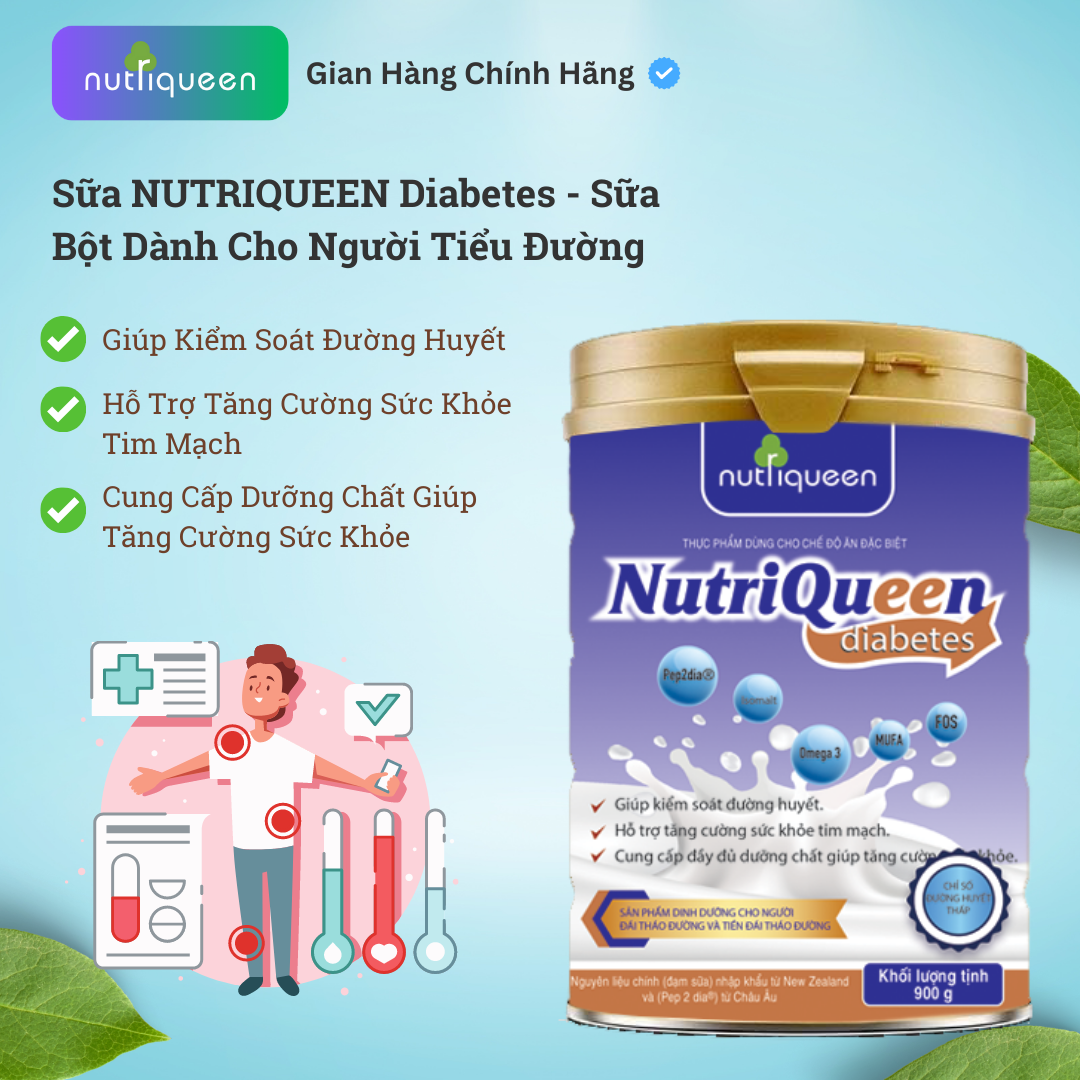
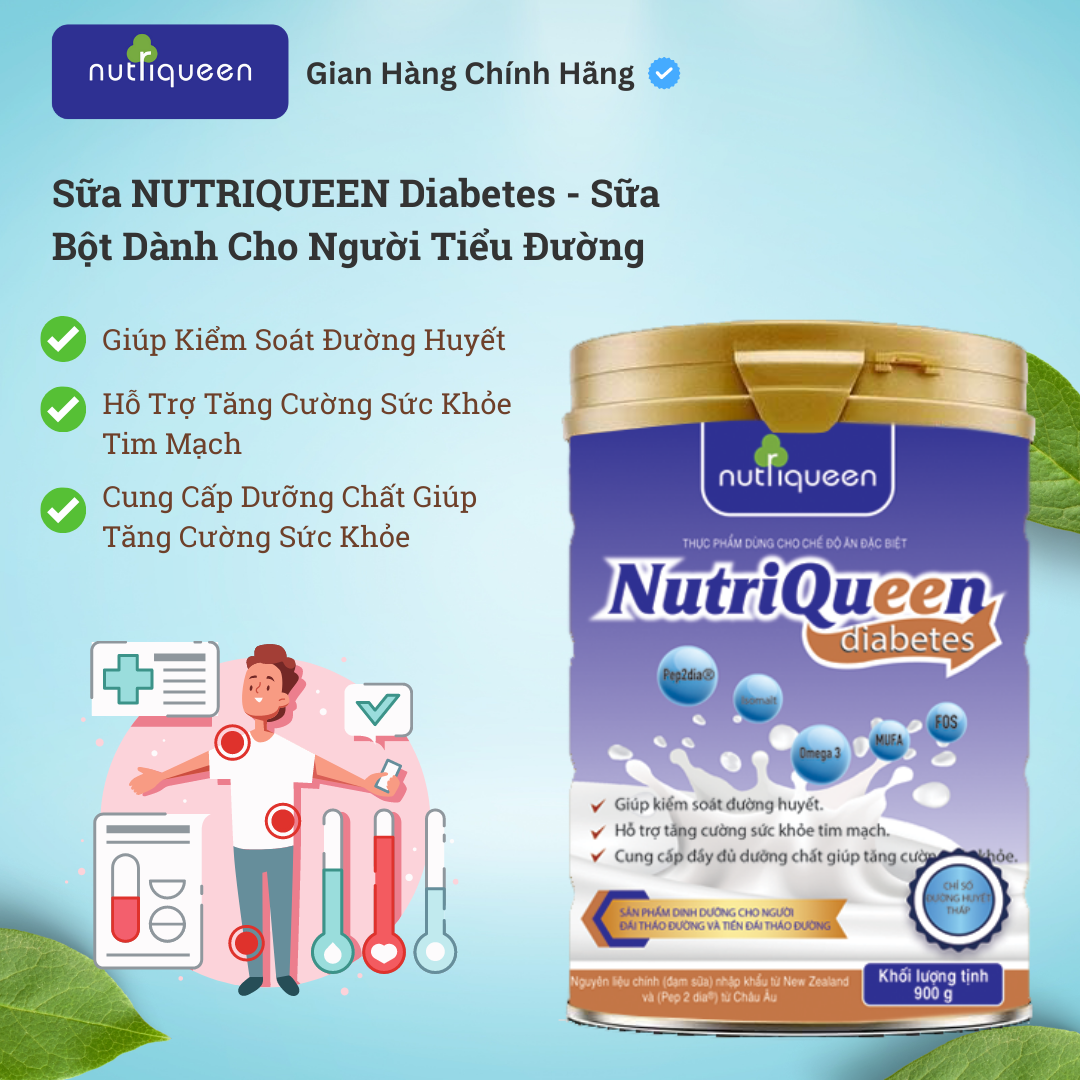
Dev: update product

Changed region(s): [[0.0306, 0.0, 0.275, 0.1222]]

diff --git a/layouts/contact/list.html b/layouts/contact/list.html
@@ -36,7 +36,38 @@
       </div>
     </div>
   </header>
+  <section class="contact-form">
+    <div class="container">
+      <div class="row justify-content-center">
+        <div class="col-lg-6">
+          <div class="contact-form-title">
+            <h3>Gửi Thông Tin</h3>
+          </div>
+          <div class="contact-form-input">
+            <form id="contact-form" action="{{ .Site.Params.fabformURL }}" method="POST">
+              <div class="form-row">
+                <div class="form-group col-md-6 pr-3">
+                  <input type="text" class="form-control" name="Name" placeholder="Tên" required />
+                </div>
+                <div class="form-group col-md-6">
+                  <input type="phone" class="form-control" name="phone" placeholder="Số Điện Thoại" required />
+                </div>
+              </div>
 
+              <div class="form-group">
+                <textarea class="form-control" id="message" rows="6" name="message" placeholder="Nội dung"></textarea>
+              </div>
+
+              <button type="submit" class="btn btn-primary btn-zoom" id="contact-form-button" formtarget="_blank">
+                Gửi
+              </button>
+              <p id="contact-form-status" class="mt-3"></p>
+            </form>
+          </div>
+        </div>
+      </div>
+    </div>
+  </section>
   {{ $address := .Site.Params.address }}
   <section class="section contact__info">
     <div class="container">
@@ -104,47 +135,6 @@
               {{ $address.openingHours }}
             </p>
           </div>
-        </div>
-      </div>
-    </div>
-  </section>
-
-  <section class="contact-form">
-    <div class="container">
-      <div class="row">
-        <div class="col-lg-6">
-          <div class="contact-form-title">
-            <h3>Gửi Thông Tin</h3>
-          </div>
-          <div class="contact-form-input">
-            <form id="contact-form" action="{{ .Site.Params.fabformURL }}" method="POST">
-              <div class="form-row">
-                <div class="form-group col-md-6 pr-3">
-                  <input type="text" class="form-control" name="Name" placeholder="Tên" required />
-                </div>
-                <div class="form-group col-md-6">
-                  <input type="phone" class="form-control" name="phone" placeholder="Số Điện Thoại" required />
-                </div>
-              </div>
-
-              <div class="form-group">
-                <textarea class="form-control" id="message" rows="6" name="message" placeholder="Nội dung"></textarea>
-              </div>
-
-              <button type="submit" class="btn btn-primary btn-zoom" id="contact-form-button" formtarget="_blank">
-                Gửi
-              </button>
-              <p id="contact-form-status" class="mt-3"></p>
-            </form>
-          </div>
-        </div>
-        <div class="col-lg-6">
-          {{ $map := .Site.Params.map }}
-          <div
-            id="map"
-            data-lat="{{ $map.latitude }}"
-            data-long="{{ $map.longitude }}"
-            data-pin="{{ $map.pinImage | absURL }}"></div>
         </div>
       </div>
     </div>

diff --git a/assets/scss/components/_navbar.scss b/assets/scss/components/_navbar.scss
@@ -1,13 +1,12 @@
 .navbar {
-  padding: 40px 0;
+  padding: 6px 0;
   background: transparent;
   transition: all 0.3s ease;
   @include desktop {
     background: $white;
   }
   @include desktop {
-    padding: 15px 20px;
-    margin: 10px 10px 0;
+    padding: 6px 15px;
     border-radius: 5px;
   }
   .navbar-brand {
@@ -19,10 +18,10 @@
   }
   &.nav__color__change {
     background: $white;
-    padding: 20px 0;
-    box-shadow: 0 10px 20px 0 rgba(50, 65, 141, 0.1);
+    padding: 6px 0;
+    box-shadow: rgba(0, 0, 0, 0.35) 0px 5px 15px;
     @include desktop {
-      padding: 15px 20px;
+      padding: 6px 15px;
     }
   }
   @include desktop {

diff --git a/layouts/product/single.html b/layouts/product/single.html
@@ -22,12 +22,12 @@
     </div>
     <div class="container">
       <div class="row mb-5">
-        <div class="col-lg-10 offset-lg-1 text-center">
+        <div class="col-lg-10 offset-lg-1">
           <div class="case-details-title">
             <h1>{{ .Title }}</h1>
           </div>
           <p>{{ .Params.shortDescription }}</p>
-          <div class="case-details-info">
+          <div class="case-details-info text-center">
             {{ range .Params.table }}
               <div class="case-details-info-item">
                 <h5>{{ .title }}</h5>

diff --git a/layouts/partials/landing/productSection.html b/layouts/partials/landing/productSection.html
@@ -14,7 +14,7 @@
           <div class="col-12">
             <div class="product-item-grid">
               {{ range first 4 (where $.Site.RegularPages "Type" "product") }}
-                <div class="product-item">
+                <div class="product-item mb-5">
                   {{ $asset := resources.Get .Params.thumbnail }}
                   {{ $img := $asset.Resize "500x webp" }}
                   <img src="{{ $img.RelPermalink }}" class="product-item-thumb" alt="product-thumb" />

diff --git a/layouts/product/list.html b/layouts/product/list.html
@@ -41,7 +41,7 @@
         <div class="col-12">
           <div class="product-item-grid">
             {{ range .Paginator.Pages }}
-              <div class="product-item">
+              <div class="product-item mb-5">
                 {{ $asset := resources.Get .Params.thumbnail }}
                 {{ $img := $asset.Resize "700x webp" }}
                 <img src="{{ $img.RelPermalink }}" class="product-item-thumb" alt="product-thumb" />

diff --git a/assets/scss/_variables.scss b/assets/scss/_variables.scss
@@ -3,7 +3,7 @@
 //
 
 // General
-$primary: #02a757;
+$primary: #5271ff;
 $secondary: #282f49;
 
 // Text
@@ -22,9 +22,9 @@ $headings-font-family: "Roboto", sans-serif;
 
 // Size
 $font-size-base: 1.125rem; // 18px
-$h1-font-size: 60px;
-$h2-font-size: 50px;
-$h3-font-size: 30px;
+$h1-font-size: 30px;
+$h2-font-size: 30px;
+$h3-font-size: 27px;
 $h4-font-size: 25px;
 $h5-font-size: 22px;
 $h6-font-size: 16px;

diff --git a/assets/scss/components/_case_details.scss b/assets/scss/components/_case_details.scss
@@ -1,5 +1,5 @@
 .case-details {
-  padding: 200px 0 100px;
+  padding: 150px 0 100px;
   .svg-img {
     position: absolute;
     top: 30%;
@@ -44,7 +44,7 @@
     background: $secondary;
     border-radius: 20px;
     padding: 30px 20px;
-    margin: 70px 0 80px;
+    margin: 30px 0 30px;
     @include mobile {
       flex-direction: column;
       padding: 30px 0;

diff --git a/assets/scss/components/_page-title.scss b/assets/scss/components/_page-title.scss
@@ -42,7 +42,7 @@
     padding: 120px 0 0;
   }
   &__title {
-    font-size: 48px;
+    font-size: 27px;
     line-height: 1;
     margin: 0 0 30px;
   }

diff --git a/assets/scss/components/_contact.scss b/assets/scss/components/_contact.scss
@@ -27,7 +27,7 @@
   }
 }
 .contact-form {
-  padding: 50px 0 100px;
+  padding: 60px 0 30px;
   &-input {
     .form-group {
       margin-bottom: 30px;

diff --git a/content/product/sua-tieu-hoa.md b/content/product/sua-tieu-hoa.md
@@ -3,21 +3,54 @@ title: "Sữa Hỗ Trợ Tiêu Hóa Nutriqueen Diges"
 date: 2019-07-11T12:49:27.000+06:00
 thumbnail: images/product/sua-tieu-hoa.png
 table:
-  - title: Service
-    description: Development, UX Design
-  - title: Continent
-    description: Americas Latin
-  - title: Fibonacci
-    description: Fractal, Design
-  - title: Kafka
-    description: John Smith
+  - title: Sản Xuất Tại Việt Nam
+    description: Nguyên Liệu Nhập Khẩu New Zealand
 categories: Sữa, Sản Phẩm Từ Sữa
-shortDescription: Lorem ipsum dolor sit amet, consetetur sadipscing elitr, sed diam
-  nonumy eirmod tempor invidunt ut labore et dolore magna aliquyam erat, sed diam
-  voluptua. At vero eos et accusam et justo duo dolores et ea rebum. Stet clita kasd
-  gubergren, no sea takimata sanctus est Lorem ipsum dolor sit amet lorem ipsum dolor.
+shortDescription: 'Công thức dinh dưỡng cho người viêm dạ dày và rối loạn tiêu hóa 
+Thực phẩm bổ sung dinh dưỡng Nutriqueen Diges là công thức chuyên biệt cho người viêm dạ dày - tá tràng  và rối loạn tiêu hóa và người gặp các vấn đề về tiêu hóa. Công thức bổ sung thành phần Ovopron - HP nhập khẩu từ Nhật bản chứa kháng thể  IgY giúp làm giảm vi khuẩn HP và Nano curcumin giúp làm giảm viêm loét dạ dày - tá tràng.'
 ---
 
-Lorem ipsum dolor sit amet, consetetur sadipscing elitr, sed diam nonumy eirmod tempor invidunt ut labore et dolore magna aliquyam erat, sed diam voluptua. At vero eos et accusam et justo duo dolores et ea rebum. Stet clita kasd gubergren, no sea takimata sanctus est Lorem ipsum dolor sit amet. Lorem ipsum dolor sit amet, consetetur sadipscing elitr, sed diam nonumy eirmod tempor invidunt ut labore et dolore magna aliquyam erat, sed diam voluptua. At vero eos et accusam et justo duo dolores et ea rebum. Stet clita kasd gubergren, no sea takimata sanctus est Lorem ipsum dolor sit amet.
+Những ai đang gặp các vấn đề liên quan hệ tiêu hóa, hoặc đơn giản muốn tăng cường sức khỏe cơ thể, nhưng chưa biết lựa chọn sản phẩm nào tốt, chất lượng, thì quý vị có thể tham khảo qua sản phẩm Sữa NutriQueen Diges của Công ty CP Nutriqueen trong bài viết dưới đây.
 
-Ipsum dolor sit amet, consetetur sadipscing elitr, sed diam nonumy eirmod tempor invidunt ut labore et dolore magna aliquyam erat, sed diam voluptua. At vero eos et accusam et justo duo dolores et ea rebum. Stet clita kasd gubergren, no sea takimata sanctus est Lorem ipsum dolor sit amet.
+Sữa NutriQueen Diges là gì
+Sữa NutriQueen Diges là thực phẩm bổ sung dinh dưỡng, thay thế bữa ăn phụ giúp hỗ trợ cải thiện các vấn đề liên quan tới hệ tiêu hóa. Sản phẩm được sản xuất trên dây chuyền khép kín đảm bảo vệ sinh an toàn thực phẩm, với quy trình quản lý chất lượng, cùng thành phần được chiết xuất từ một số thảo dược thiên nhiên, an toàn với người sử dụng. NutriQueen Diges được bào chế dưới dạng bột sữa, sử dụng theo đường uống, dùng dược cho hầu hết mọi đối tượng.
+
+Công dụng của Sữa NutriQueen Diges
+NutriQueen Diges có công dụng chính là giúp bổ sung dinh dưỡng, thay thế bữa ăn phụ, tăng cường sức khỏe và hỗ trợ giảm rối loạn tiêu hóa.
+
+Đối tượng sử dụng Sữa NutriQueen Diges
+Sản phẩm Sữa NutriQueen Diges thích hợp sử dụng cho hầu hết mọi đối tượng muốn tăng cường và cải thiện sức khỏe, hoặc những người đang gặp các vấn đề liên quan tới tiêu hóa như: viêm loét dạ dày – tá tràng, rối loạn tiêu hóa,….
+
+Hướng dẫn sử dụng Sữa NutriQueen Diges
+Xin vui lòng đọc trong tờ hướng dẫn sử dụng đi kèm, hoặc có thể liên hệ với bác sĩ/ dược sĩ để được tư vấn cụ thể hơn.
+
+Thành phần của Sữa NutriQueen Diges
+
+Dạ dày Herblux, hỗ trợ giảm nguy cơ viêm loét dạ dày, tá tràng
+Những người đang bị viêm loét dạ dày, tá tràng, người đau rát thượng...
+350.000₫
+Ngoài các thành phần dinh dưỡng và vi chất thiết yếu, sản phẩm NutriQueen Diges còn được bổ sung các chất hỗ trợ viêm loét dạ dày và rối loạn tiêu hóa như:
+
+Ovopron-HP® Nhập Khẩu Từ Nhật Bản
+Nano Curcumin Và Tinh Bột Nghệ
+Đạm Whey Chất Lượng Cao (Whey Protein)
+Đạm Sữa Lactium
+Nucleotides
+Beta-Glucan, Kẽm Và Vitamin C
+FOS
+Sắt & Axit Folic
+Dưỡng Chất, Vitamins Và Khoáng Chất
+Lưu ý trong quá trình sử dụng Sữa NutriQueen Diges
+Không dùng cho người mẫn cảm với bất kỳ thành phần nào của sản phẩm.
+Trong quá trình sử dụng, nếu gặp bất kỳ những phản ứng phụ không mong muốn nào thì hãy ngưng sử dụng và liên hệ với bác sĩ, dược sĩ để được tư vấn.
+Đọc kỹ hướng dẫn sử dụng trước khi dùng.
+Sản phẩm Sữa NutriQueen Diges không phải là thuốc và không có tác dụng thay thế thuốc chữa bệnh.
+
+Ưu điểm của Sữa NutriQueen Diges
+Sản phẩm được sản xuất trên dây chuyền khép kín đảm bảo vệ sinh và an toàn thực phẩm, quy trình quản lý chất lượng và kiểm tra chặt chẽ, nguyên liệu đầu vào đạt chuẩn và được chọn lọc kỹ càng.
+Nguyên liệu chính được nhập khẩu từ New Zealand và châu Âu nên đảm bảo được chất lượng tuyệt đối.
+Bổ sung thêm nhiều thành phần chuyên biệt cho hiệu quả tốt hơn mà lại có giá cạnh tranh hơn rất nhiều (giá chỉ bằng 1/2 so với các sản phẩm nhập khẩu tương tự).
+Sữa NutriQueen Diges được chiết xuất từ một số thành phần từ thiên nhiên và các vitamin, dưỡng chất, khoáng chất, an toàn với người sử dụng.
+Không chứa thành phần hóa học độc hại, ít hoặc không gây tác dụng phụ.
+Mô tả Sữa NutriQueen Diges
+Sữa NutriQueen Diges được bào chế dưới dạng bột sữa, mùi thơm, đựng trong lọ thiếc, nắp nhựa. Hộp có tone màu chủ đạo là màu vàng, mặt trước có tên sản phẩm màu xanh, và có in hình củ nghệ và có các vòng tròn màu xanh bên trong in tên thành phần. Mặt sau có in chi tiết về thành phần, cách dùng, đối tượng

diff --git a/content/product/sua-xuong-khop.md b/content/product/sua-xuong-khop.md
@@ -1,0 +1,70 @@
+---
+title: "Sữa Hỗ Trợ Xương Khớp Nutriqueen Bones & Joints"
+date: 2019-07-11T12:49:27.000+06:00
+thumbnail: images/product/sua-xuong-khop.png
+table:
+  - title: Sản Xuất Tại Việt Nam
+    description: Nguyên Liệu Nhập Khẩu New Zealand
+categories: Sữa, Sản Phẩm Từ Sữa
+shortDescription: Sản phẩm dinh dưỡng Nutriqueen Bones and Joints, thuộc DÒNG SẢN PHẨM ĐẶC BIỆT- chuyên biệt giúp BẢO VỆ SỤN KHỚP, bổ sung các dưỡng chất quan trọng cho xương khớp dẻo dai từ GLUCOSAMINE,NAG và COLLAGEN Type II, dễ hấp thu. Hệ công thức độc đáo của sản phẩm Nutriqueen Bones and Joints giúp bảo vệ sụn khớp không bị khô, giúp khớp dẻo dai và linh hoạt, ngăn ngừa loãng xương ở người trưởng thành
+---
+
+CHI TIẾT SẢN PHẨM
+
+Sữa Nutriqueen Bones là sản phẩm dinh dưỡng y học được nghiên cứu chuyên biệt, dựa trên đặc điểm nhân sinh học của người Việt Nam, bổ sung canxi và các thành phần khác, phòng chống loãng xương, cải thiện chức năng xương khớp
+
+Sữa Nutriqueen Bone được sản xuất hoàn toàn bằng nguyên liệu chính nhập khẩu từ Châu Âu và Newzeland đồng thời được sản xuất trên dây chuyền áp dụng hệ thống quản lý chất lượng theo tiêu chuẩn quốc tế ISO 2000:2005 &GMP, HACCP có độ tin cậy, an toàn cao & sản phẩm trao giải sản phẩm uy tín, chất lượng, an toàn vì sức khỏe người tiêu dùng.
+
+1. ĐỐI TƯỢNG SỬ DỤNG
+
+Người bị loãng xương
+
+Người có nguy cơ giảm, loãng mật độ xương
+
+Người có nhu cầu cải thiện chức năng xương khớp, chơi thể thao hoặc hoạt động thể lực nặng.
+
+Khuyến dùng cho người trên 10 tuổi, trẻ em dưới 10 tuổi cần có chỉ định của bác sĩ
+
+2. CÔNG DỤNG
+
+• Collagen Type II, NAG giúp khớp dẻo dai và linh hoạt hơn
+
+• Glucosamine, Chondroitin giúp giảm đau xương khớp, bôi trơn sụn khớp, giúp khớp vận
+
+động linh hoạt
+
+• Canxi, Vitamin D, Magie giúp xương chắc khỏe từ bên trong
+
+• MUFA, PUFA tốt cho tim mạch
+
+• FOS giúp cải thiện hệ tiêu hóa, tăng khả năng hấp thu Canxi
+
+3. HƯỚNG DẨN SỬ DỤNG
+
+Cho từ từ 4 muỗng gạt NUTRIQUEEN BONES vào 180ml nước đun sôi để ấm khoảng 45 - 50oC, khuấy đều được 200ml dung dịch, cung cấp 154 Kcal.
+
+Mỗi lần uống 1 ly. Khẩu phần khuyên dùng 2 ly/ ngày.
+
+Hỗn hợp sau khi pha sử dụng hết trong vòng 3 giờ
+
+Đối với những người lần đầu tiên uống sữa, để tránh hiện tượng không dung nạp đường Lactose (thành phần tự nhiên của sữa) nên uống sữa ngay sau bữa ăn và bắt đầu uống với lượng nhỏ khoảng 50ml, sau đó tăng dần lên 200ml trong vòng 2 tuần.
+
+LƯU Ý: Không dùng cho trẻ em, phụ nữ có thai, người tiểu đường khi không có chỉ định của Bác sĩ
+
+4. BẢO QUẢN
+
+Bảo quản nơi khô ráo sạch sẽ, thoáng mát, tránh ánh nắng trực tiếp.
+
+Lon đã mở phải được đậy kỹ và sử dụng hết trong vòng 3 tuần.
+
+Hỗn hợp sau khi pha nên sử dụng hết trong vòng 3 giờ.
+
+5. NHÀ SẢN XUẤT
+
+• Sản phẩm của công ty Nutriqueen là - THƯƠNG HIỆU uy tín của Việt Nam - về thực phẩm dinh dưỡng Y Học.
+
+NUTRIQUEEN được thành lập bởi các chuyên gia nghiên cứu hàng đầu về dinh dưỡng lâm sàng được đào tạo ở Hoa Kỳ, Châu Âu và Nhật Bản.
+
+• Sản phẩm Nutriqueen được xây dựng để phù hợp với các đặc điểm sinh lý của người Việt Nam, dựa trên cơ sở ứng dụng khoa học thế giới, theo tiêu chuẩn mà Tổ Chức Y Tế Thế Giới (WHO) đặt ra.
+
+• Toàn bộ sản phẩm của NUTRIQUEEN được sản xuất trên dây chuyền áp dụng hệ thống quản lý chất lượng theo tiêu chuẩn quốc tế ISO 2000:2005 & GMP, HACCP có độ tin cậy và an toàn cao

diff --git a/content/product/sua-tieu-duong.md b/content/product/sua-tieu-duong.md
@@ -3,21 +3,30 @@ title: Sữa Cho Người Tiểu Đường NutriQueen Diabetes
 date: 2019-07-13T12:49:27.000+06:00
 thumbnail: images/product/sua-tieu-duong.png
 table:
-  - title: Service
-    description: Development, UX Design
-  - title: Continent
-    description: Americas Latin
-  - title: Fibonacci
-    description: Fractal, Design
-  - title: Kafka
-    description: John Smith
+  - title: Sản Xuất Tại Việt Nam
+    description: Nguyên Liệu Nhập Khẩu New Zealand
 categories: Sữa, Sản Phẩm Từ Sữa
-shortDescription: Lorem ipsum dolor sit amet, consetetur sadipscing elitr, sed diam
-  nonumy eirmod tempor invidunt ut labore et dolore magna aliquyam erat, sed diam
-  voluptua. At vero eos et accusam et justo duo dolores et ea rebum. Stet clita kasd
-  gubergren, no sea takimata sanctus est Lorem ipsum dolor sit amet lorem ipsum dolor.
+shortDescription: SẢN PHẨM DINH DƯỠNG CHO NGƯỜI ĐÁI THÁO ĐƯỜNG VÀ TIỀN ĐÁI THÁO ĐƯỜNG Bổ sung đầy đủ các dưỡng chất thiết yếu và cân đối nhằm tăng cường sức khỏe cho người tiểu đường, dễ hấp thụ. Công thức có bổ sung thành phần Pep2dia giúp kiểm soát đường huyêt. MUFA và Omega 3 giúp tăng cường sức khỏe tim mạch. Sản phẩm có thể dùng thay thế bữa ăn chính hoặc bữa phụ cho người tiểu đường.
 ---
 
-Lorem ipsum dolor sit amet, consetetur sadipscing elitr, sed diam nonumy eirmod tempor invidunt ut labore et dolore magna aliquyam erat, sed diam voluptua. At vero eos et accusam et justo duo dolores et ea rebum. Stet clita kasd gubergren, no sea takimata sanctus est Lorem ipsum dolor sit amet. Lorem ipsum dolor sit amet, consetetur sadipscing elitr, sed diam nonumy eirmod tempor invidunt ut labore et dolore magna aliquyam erat, sed diam voluptua. At vero eos et accusam et justo duo dolores et ea rebum. Stet clita kasd gubergren, no sea takimata sanctus est Lorem ipsum dolor sit amet.
+✅ QUY CÁCH: Hộp 900g.
 
-Ipsum dolor sit amet, consetetur sadipscing elitr, sed diam nonumy eirmod tempor invidunt ut labore et dolore magna aliquyam erat, sed diam voluptua. At vero eos et accusam et justo duo dolores et ea rebum. Stet clita kasd gubergren, no sea takimata sanctus est Lorem ipsum dolor sit amet.
+✅ CÔNG DỤNG:
+
+- Thay thế bữa ăn chính hoặc phụ cho người bệnh đái tháo đường có bệnh lý do thiếu hụt dưỡng chất.
+
+- Hỗ trợ giảm đường huyết, tăng cường sức khỏe tim mạch.
+
+- Cung cấp đầy đủ dưỡng chất giúp tăng cường sức khỏe.
+
+✅ ĐỐI TƯỢNG SỬ DỤNG:
+
+- Người trung tuổi, người đái tháo đường và tiền đái tháo đường.
+
+✅ HƯỚNG DẪN SỬ DỤNG:
+
+- Cho từ từ 4 muống gạt ngang (45g/1 muỗng) vào 180ml nước ấm 45° - 50° khuấy đều.
+
+- Mỗi ngày dùng từ 2- 3 ly theo hướng dẫn của chuyên gia dinh dưỡng.
+
+- Dùng ngay sau khi pha 3 tiếng, đổ bỏ phần thừa sau khi dùng.
